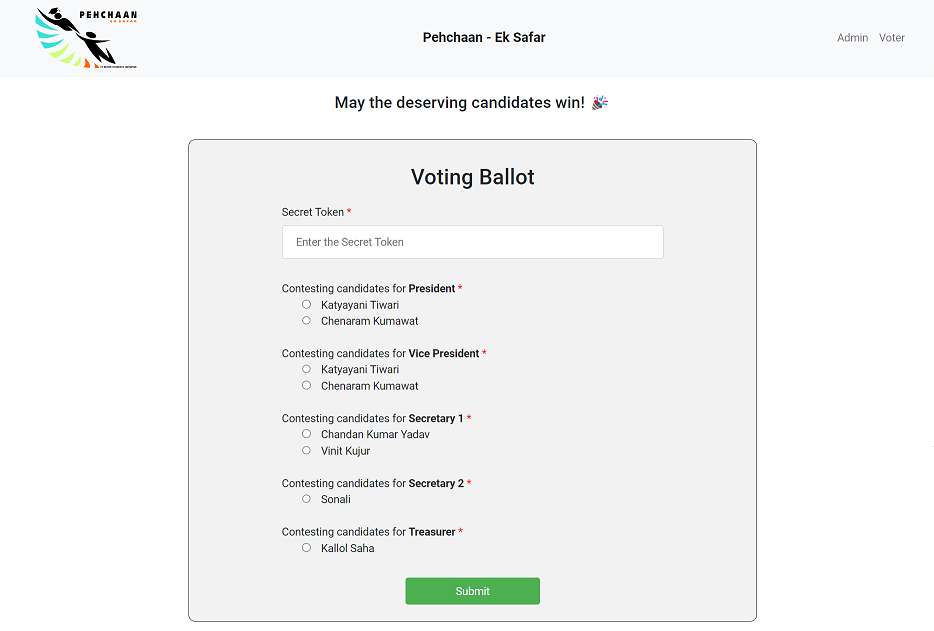
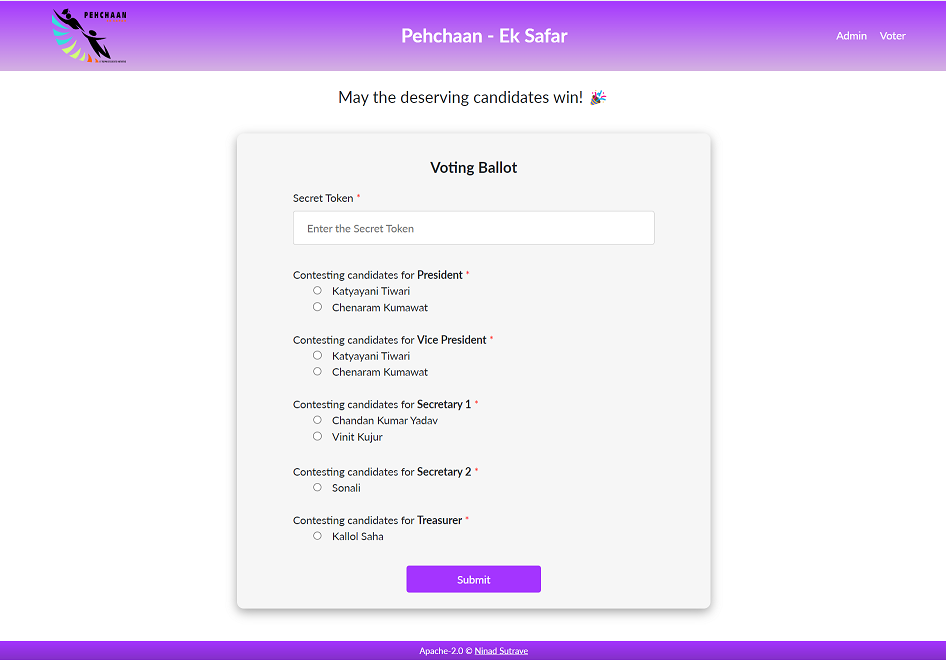
box shadow added

Changed region(s): [[0.0, 0.271, 1.0, 1.0], [0.0, 0.0, 1.0, 0.1807], [0.4347, 0.2409, 0.5899, 0.3011]]

diff --git a/src/components/VoteForm.css b/src/components/VoteForm.css
@@ -15,12 +15,11 @@
   flex-direction: column;
   align-items: center;
   justify-content: center;
-  margin: 1rem;
+  margin: 1rem 1rem 3rem 1rem;
   padding: 1rem;
   border-radius: 10px;
   background: #f6f6f6;
-  border: 1px solid #222222;
-  box-shadow: center;
+  box-shadow: rgba(0, 0, 0, 0.35) 0px 5px 15px;
 }
 
 .voter-form {
@@ -59,6 +58,10 @@ input[type=text], select {
     border: 1px solid #ccc;
     border-radius: 4px;
     box-sizing: border-box;
+  }
+
+  input[type=text]:focus {
+    outline: none;
   }
   
   input[type=submit] {
